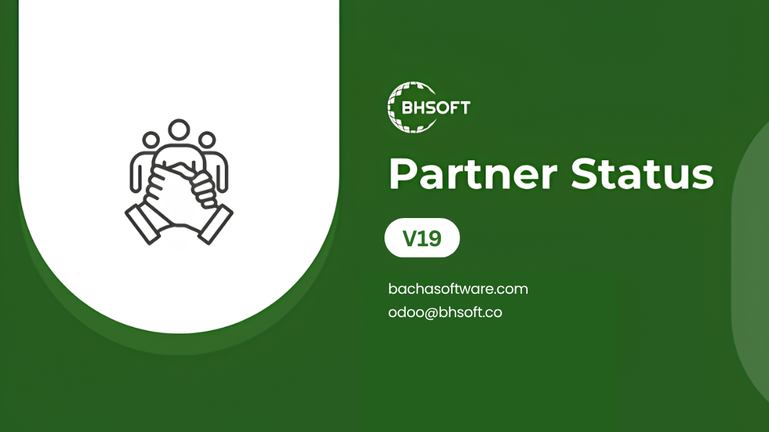
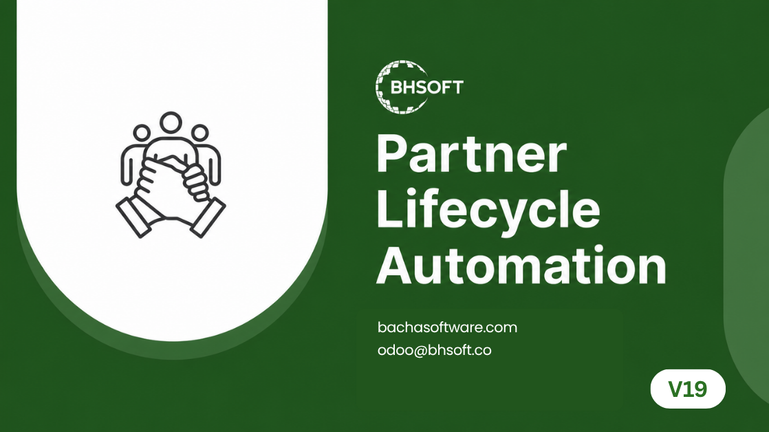
v19: update index for module

diff --git a/bhs_mail_domain/static/description/index.html b/bhs_mail_domain/static/description/index.html
@@ -191,18 +191,18 @@
                         <img src="./imgs/other_module/crm_hide_won.png" class="img-fluid" />
                         <h4 class="mt0 text-truncate mb-0"
                             style="padding:7px 19px 37px; width:100%; font-weight:600; color:#374151;font-size: 20px;line-height: 24px; font-family: Inter;">
-                            Hide Won Lead/Opportunities
+                            Opportunity Visibility Control
                         </h4>
                     </div>
                 </a>
             </div>
             <div class="col-md-4 p-2">
-                <a href="https://apps.odoo.com/apps/modules/19.0/bhs_mass_mailing/" target="_blank" style="text-decoration: none;">
+                <a href="https://apps.odoo.com/apps/modules/19.0/bhs_sales" target="_blank" style="text-decoration: none;">
                     <div style="border-radius:12px; border: 1px solid #E5E5E5; box-shadow: 0px 1px 2px 0px #0000000D; overflow: hidden;">
-                        <img src="./imgs/other_module/mass_mailing.png" class="img-fluid" />
+                        <img src="./imgs/other_module/custom_for_sale.png" class="img-fluid" />
                         <h4 class="mt0 text-truncate mb-0"
                             style="padding:7px 19px 37px;  width:100%; font-weight:600; color:#374151;font-size: 20px;line-height: 24px; font-family: Inter;">
-                            Mass Mailing
+                            Sales Order EOM Automation
                         </h4>
                     </div>
                 </a>
@@ -213,18 +213,18 @@
                         <img src="./imgs/other_module/partner_status.png" class="img-fluid"/>
                         <h4 class="mt0 text-truncate mb-0"
                             style="padding:7px 19px 37px; width:100%; font-weight:600; color:#374151;font-size: 20px;line-height: 24px; font-family: Inter;">
-                            Partner Status
+                            Partner Lifecycle Automation
                         </h4>
                     </div>
                 </a>
             </div>
             <div class="col-md-4 p-2">
-                <a href="https://apps.odoo.com/apps/modules/19.0/bhs_crm/" target="_blank" style="text-decoration: none;">
+                <a href="https://apps.odoo.com/apps/modules/19.0/bhs_employee_user/" target="_blank" style="text-decoration: none;">
                     <div style="border-radius:12px; border: 1px solid #E5E5E5; box-shadow: 0px 1px 2px 0px #0000000D; overflow: hidden;">
-                        <img src="./imgs/other_module/crm_lead_code.png" class="img-fluid" />
+                        <img src="./imgs/other_module/employee_user.png" class="img-fluid" />
                         <h4 class="mt0 text-truncate mb-0"
                             style="padding:7px 19px 37px; width:100%; font-weight:600; color:#374151;font-size: 20px;line-height: 24px; font-family: Inter;">
-                            CRM Lead Code
+                            Employee-to-user Automation
                         </h4>
                     </div>
                 </a>
@@ -235,7 +235,7 @@
                         <img src="./imgs/other_module/hr_employee_move.png" class="img-fluid"/>
                         <h4 class="mt0 text-truncate mb-0"
                             style="padding:7px 19px 37px; width:100%; font-weight:600; color:#374151;font-size: 20px;line-height: 24px; font-family: Inter;">
-                            Employees Transfer Management
+                            Employee Transfer Management
                         </h4>
                     </div>
                 </a>
@@ -246,7 +246,7 @@
                         <img src="./imgs/other_module/archive_contact.png" class="img-fluid"/>
                         <h4 class="mt0 text-truncate mb-0"
                             style="padding:7px 19px 37px; width:100%; font-weight:600; color:#374151;font-size: 20px;line-height: 24px; font-family: Inter;">
-                            Archive Contact
+                            Auto Contact Archiver
                         </h4>
                     </div>
                 </a>
